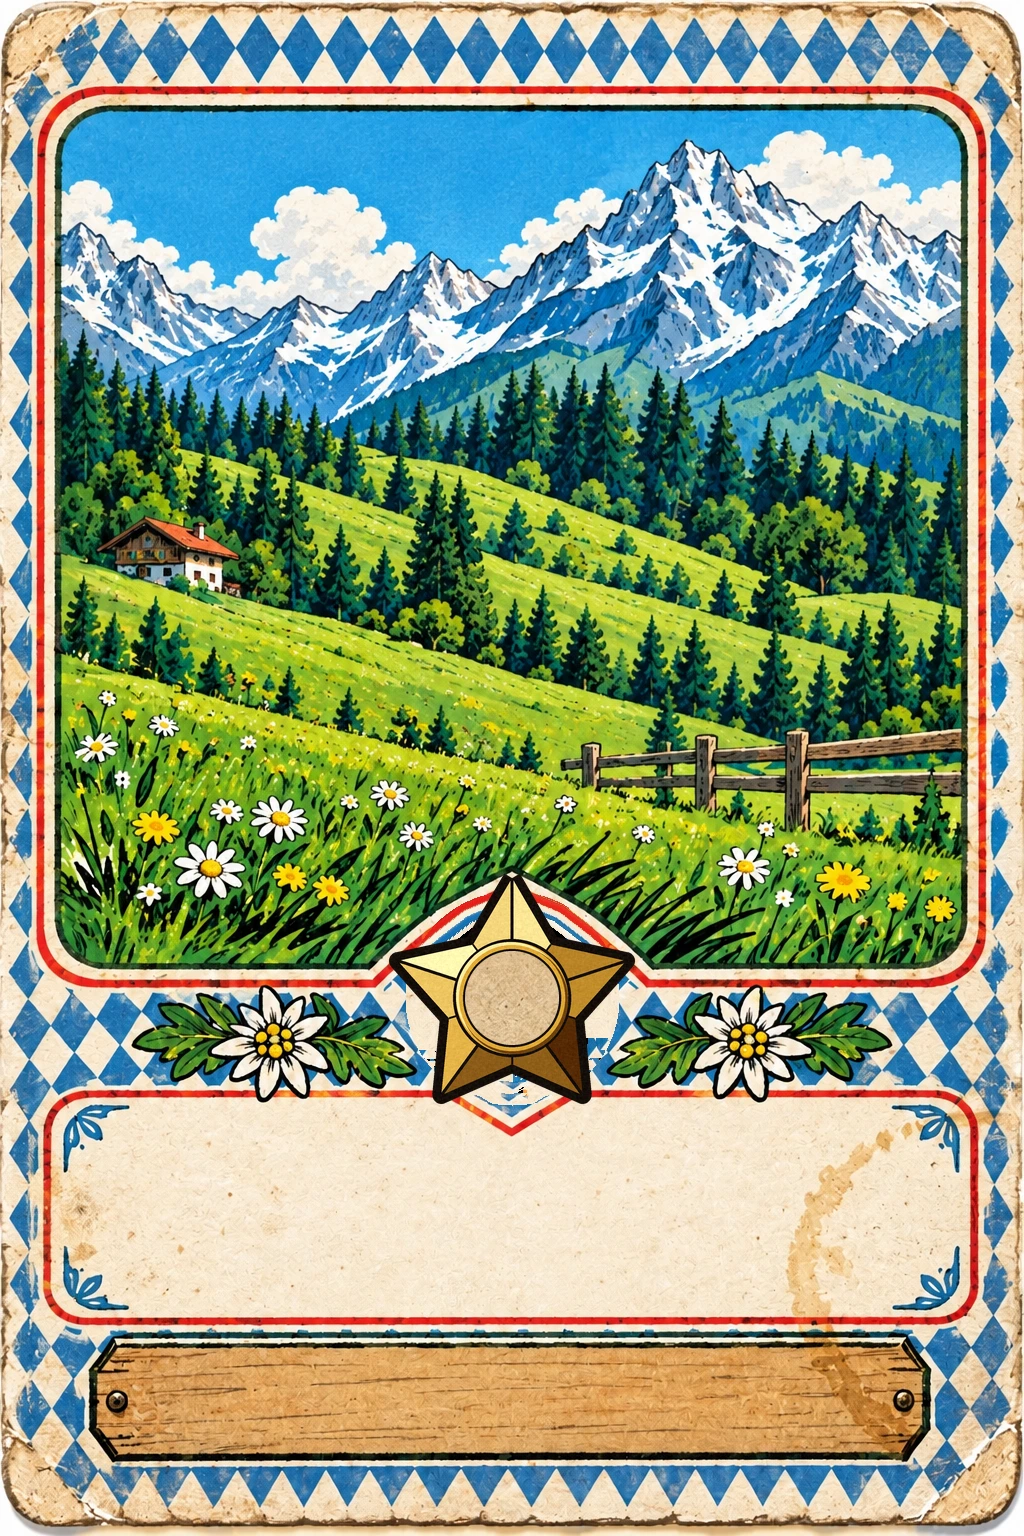
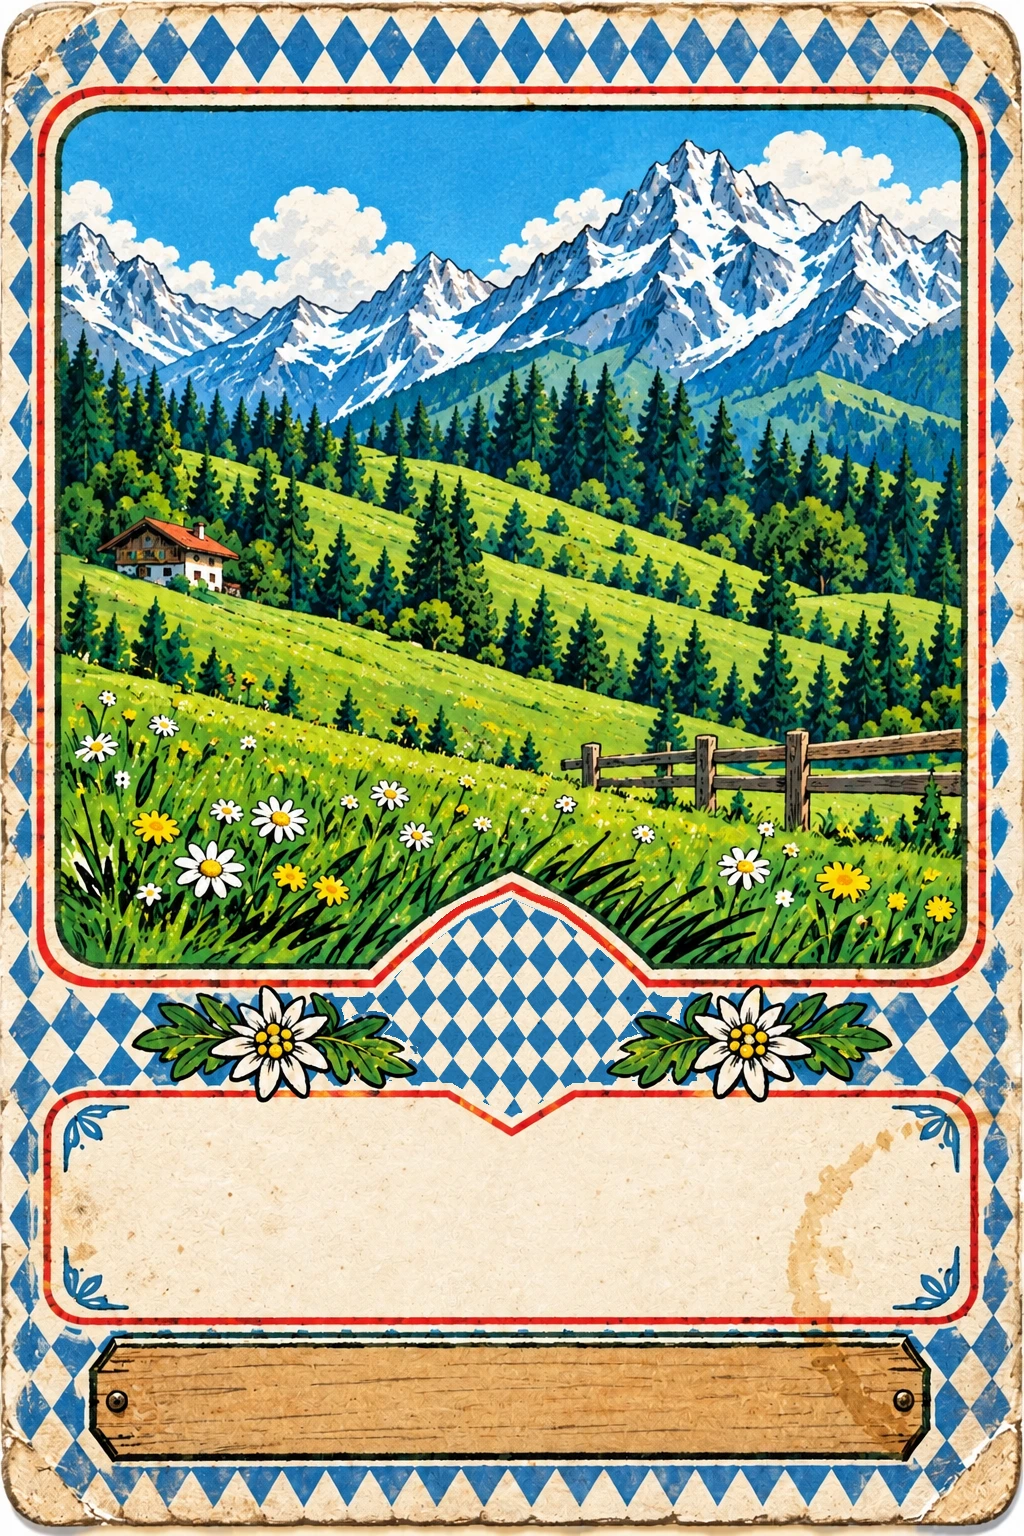
Cards: Star's star over the runner, fresh diamonds behind it
The gold star is now its own picture (assets/cards/star_cap.png) laid over
the runner, so his boots never hide its top point. The blue-white diamonds
round it are drawn fresh and even. CardFace.csv star_cap_art/star_cap_spot.

Claude-Session: https://claude.ai/code/session_01RWP7DDA1b3Y2KU4gc1hkCc

Changed region(s): [[0.3438, 0.5625, 0.6562, 0.7188]]

diff --git a/tools/art/draw_star_cap.py b/tools/art/draw_star_cap.py
@@ -2,12 +2,14 @@
 bottle cap was (24 Oct, Anthony: "For Star player cards, have the circle be
 replaced by a star of the same art style").
 
-Free, no AI. The cap is painted out of the frame first (the blue-white
-diamonds are filled in by OpenCV's shift-map inpaint, the red and white
-stripes are carried along their own curve), then a fat five-point star is
-drawn on top at 4x: thick black ink, gold facets lit from the top left like
-the cap's metal, and the cap's own cream middle so the number sits on the
-same cardboard as on every other card.
+Free, no AI. The cap is painted out of the frame first (OpenCV's shift-map
+inpaint, the red and white stripes carried along their own curve), the
+blue-white diamonds round it are drawn fresh and even (24 Oct: "fix the blue
+diamonds behind it"), then a fat five-point star is drawn at 4x as its own
+picture, which the game lays over the runner so his boots never hide its top
+point ("have the star have a complete top"): thick black ink, gold facets lit
+from the top left like the cap's metal, and the cap's own cream middle so the
+number sits on the same cardboard as on every other card.
 
     pip install opencv-contrib-python-headless   (once)
     python3 tools/art/draw_star_cap.py
@@ -21,12 +23,18 @@ from PIL import Image, ImageDraw, ImageFilter
 
 ROOT = Path(__file__).resolve().parents[2]
 SRC = ROOT / "art_source/cards/beermat_frame_r187.png"
-OUT = ROOT / "assets/cards/beermat_frame_star.webp"
+OUT = ROOT / "assets/cards/beermat_frame_star.webp"   # the mat, cap painted out
+OUT_STAR = ROOT / "assets/cards/star_cap.png"          # the star, laid on top in game
 
 CX, CY = 512, 998          # middle of the cap (CardFace.csv cap)
 CAP_R = 107                # the cap with its ink edge
 STAR_OUT = 120             # star tip radius
 STAR_IN = 66               # star valley radius
+DIAMOND_W = 30             # one blue diamond, wide
+DIAMOND_H = 40             # and tall
+DIAMOND_ROW = 40           # y of a row of diamond middles (from the cap middle)
+DIAMOND_GAP = 13           # cream stripe between a red line and the diamonds
+DIAMOND_REACH = 185        # how far left and right they are drawn fresh
 CREAM_R = 47               # the cream middle the number sits on
 SS = 4                     # supersample
 
@@ -108,6 +116,56 @@ def paint_out_cap(frame):
     out[y0:y1, x0:x1][hole[y0:y1, x0:x1]] = cv2.cvtColor(filled, cv2.COLOR_BGR2RGB)[hole[y0:y1, x0:x1]]
     carry_stripe(frame, out, hole, UPPER, 22)
     carry_stripe(frame, out, hole, LOWER, 16)
+    return redraw_diamonds(frame, out)
+
+
+def _curve_y(points, ax):
+    """The y of a red stripe's centre line at |x| = ax (from the cap middle)."""
+    xs = [-x for x, _ in points][::-1]
+    ys = [y for _, y in points][::-1]
+    return np.interp(ax, xs, ys)
+
+
+def redraw_diamonds(src, out):
+    """The blue-white diamonds inside the stripes round the cap, drawn fresh
+    and even (the old ones were half hidden by the cap and smudged)."""
+    H, W = out.shape[:2]
+    yy, xx = np.mgrid[0:H, 0:W]
+    X, Y = (xx - CX).astype(float), (yy - CY).astype(float)
+    ax = np.abs(X)
+    inside = (Y > _curve_y(UPPER, ax) + DIAMOND_GAP) & (Y < _curve_y(LOWER, ax) - DIAMOND_GAP) \
+        & (ax < DIAMOND_REACH)
+    # Keep the edelweiss leaves (and their ink) where they are.
+    r, g, b = [src[..., i].astype(int) for i in range(3)]
+    leaf = ((g > r + 15) & (g > b + 15)) | (r + g + b < 240)
+    leaf &= np.hypot(X, Y) > CAP_R + 2
+    leaf = cv2.dilate(leaf.astype(np.uint8), np.ones((7, 7), np.uint8)) > 0
+    area = inside & ~leaf
+
+    # Even diamond checker, a hair wobbly like a hand-inked line.
+    rng = np.random.default_rng(7)
+    wob = cv2.GaussianBlur(rng.normal(0, 1, (H // 8 + 2, W // 8 + 2)), (0, 0), 1.5)
+    wob = cv2.resize(wob, (W, H)) * 6.0
+    cover = np.zeros((H, W))
+    for sy in (-1 / 3, 0, 1 / 3):
+        for sx in (-1 / 3, 0, 1 / 3):
+            u = (X + sx + wob) / DIAMOND_W + (Y + sy - DIAMOND_ROW) / DIAMOND_H
+            v = (X + sx + wob) / DIAMOND_W - (Y + sy - DIAMOND_ROW) / DIAMOND_H
+            cover += (np.floor(u + 0.5) + np.floor(v + 0.5)) % 2 == 0
+    cover /= 9.0
+
+    # Colours from the frame: its blue and the cream panel's paper grain.
+    near = (np.hypot(X, Y) > CAP_R + 4) & (np.hypot(X, Y) < 200)
+    blue_px = (b > r + 50) & (b > 130) & near
+    blue = np.median(src[blue_px], axis=0)
+    paper = src[1160:1300, 300:724].astype(float)
+    grain = paper - cv2.GaussianBlur(paper, (0, 0), 6)
+    cream = np.median(paper.reshape(-1, 3), axis=0)
+    gy = (yy - CY + 300) % grain.shape[0]
+    gx = (xx - 300) % grain.shape[1]
+    g_here = grain[gy, gx]
+    colour = cream * (1 - cover[..., None]) + blue * cover[..., None] + g_here
+    out[area] = colour[area].clip(0, 255).astype(np.uint8)
     return out
 
 
@@ -120,7 +178,7 @@ def star_points(cx, cy, r_out, r_in):
     return pts
 
 
-def draw_star(frame):
+def draw_star():
     size = (STAR_OUT + 30) * 2
     big = size * SS
     c = big / 2
@@ -178,17 +236,19 @@ def draw_star(frame):
     arr[..., :3] = (arr[..., :3] + grain[..., None]).clip(0, 255)
     star = Image.fromarray(arr.astype(np.uint8), "RGBA")
 
-    out = Image.fromarray(frame).convert("RGBA")
-    out.alpha_composite(star, (CX - size // 2, CY - size // 2))
-    return out.convert("RGB")
+    return star
 
 
 def main():
     frame = np.asarray(Image.open(SRC).convert("RGB")).copy()
     patched = paint_out_cap(frame)
-    card = draw_star(patched)
-    card.save(OUT, quality=92)
-    print("saved", OUT)
+    Image.fromarray(patched).save(OUT, quality=92)
+    star = draw_star()
+    star.save(OUT_STAR)
+    w, h = patched.shape[1], patched.shape[0]
+    print("saved", OUT, OUT_STAR)
+    print("CardFace.csv star_cap_spot = %.4f,%.4f,%.4f,%.4f" % (
+        (CX - star.width / 2) / w, (CY - star.height / 2) / h, star.width / w, star.height / h))
 
 
 if __name__ == "__main__":

diff --git a/guides/DESIGNER_MANUAL.md b/guides/DESIGNER_MANUAL.md
@@ -620,8 +620,10 @@ a worn Bavarian beer mat. You chose it from your collector card photo.
 - The **number** in the bottle cap is his power (`cap_number`).
 - **Star players** have a gold inked **star** where the bottle cap is, with
   the same number in its cream middle (24 Oct, Anthony: "have the circle be
-  replaced by a star of the same art style"). It is a second frame picture,
-  `assets/cards/beermat_frame_star.webp`, drawn for free by
+  replaced by a star of the same art style"). The mat without the cap is
+  `assets/cards/beermat_frame_star.webp`; the star is its own picture,
+  `assets/cards/star_cap.png`, laid over the runner so his boots never hide
+  its top point. Both are drawn for free by
   `python3 tools/art/draw_star_cap.py` (needs `opencv-contrib-python-headless`).
 - The Star mark sits top right in the window for Stars.
 
@@ -631,7 +633,8 @@ All of it is in **`data/CardFace.csv`**:
 |---|---|
 | `enabled` | `true` = beer mat card; `false` = the old dark card |
 | `frame` | the card picture (in `assets/cards/`); `signature` is empty now |
-| `star_frame` | the card picture for Star players (gold star instead of the cap); empty = Stars keep the cap |
+| `star_frame` | the card picture for Star players (cap painted out); empty = Stars keep the cap |
+| `star_cap_art`, `star_cap_spot` | the gold star picture and where it sits (`x,y,w,h` shares) |
 | `window`, `plank`, `cap`, `sign` | where each part is, as `x,y,w,h` shares of the frame (0 to 1) |
 | `runner_height`, `runner_feet`, `runner_speed` | how big the runner is, where his feet are, how fast he runs |
 | `cap_number` | `power` or `card_number` |
